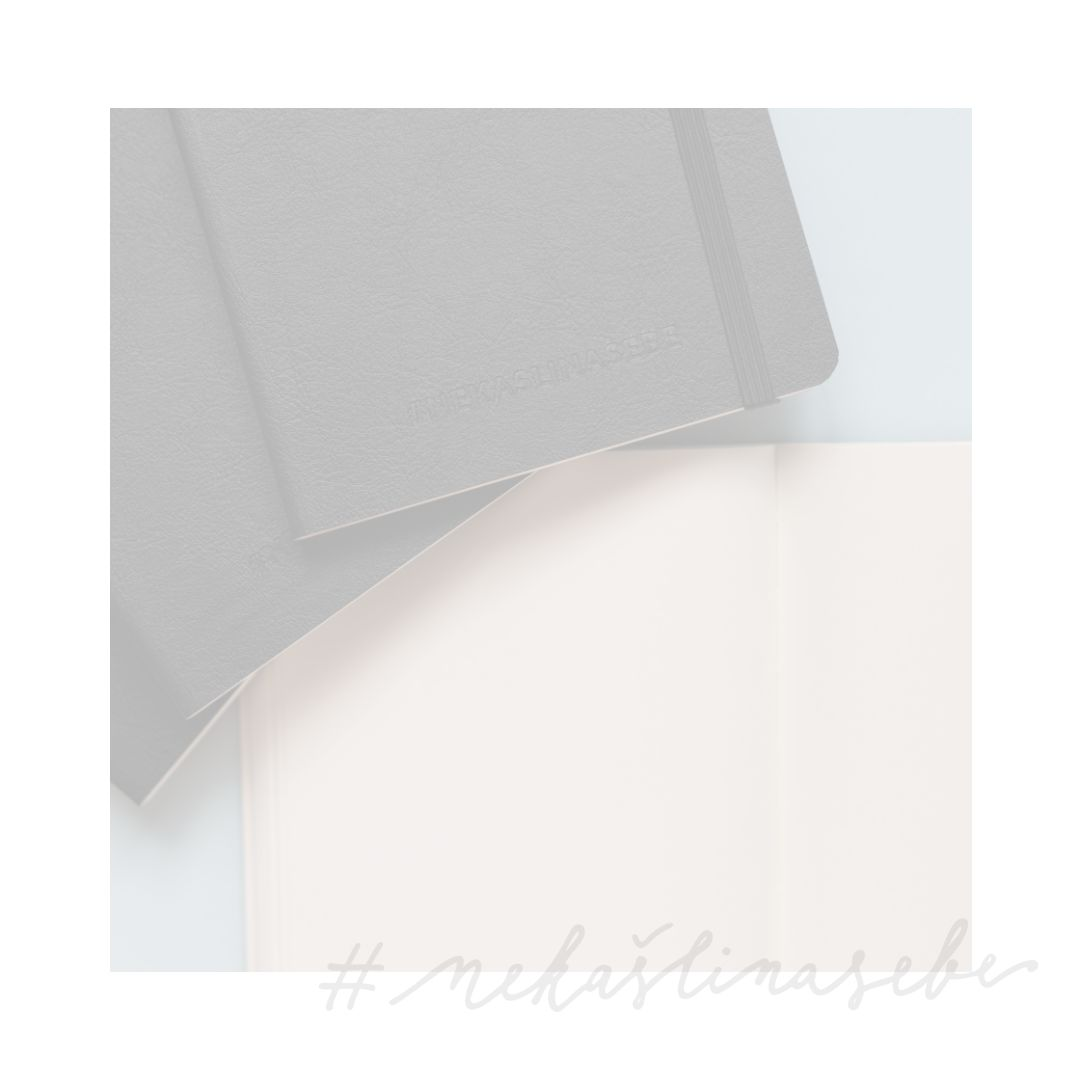
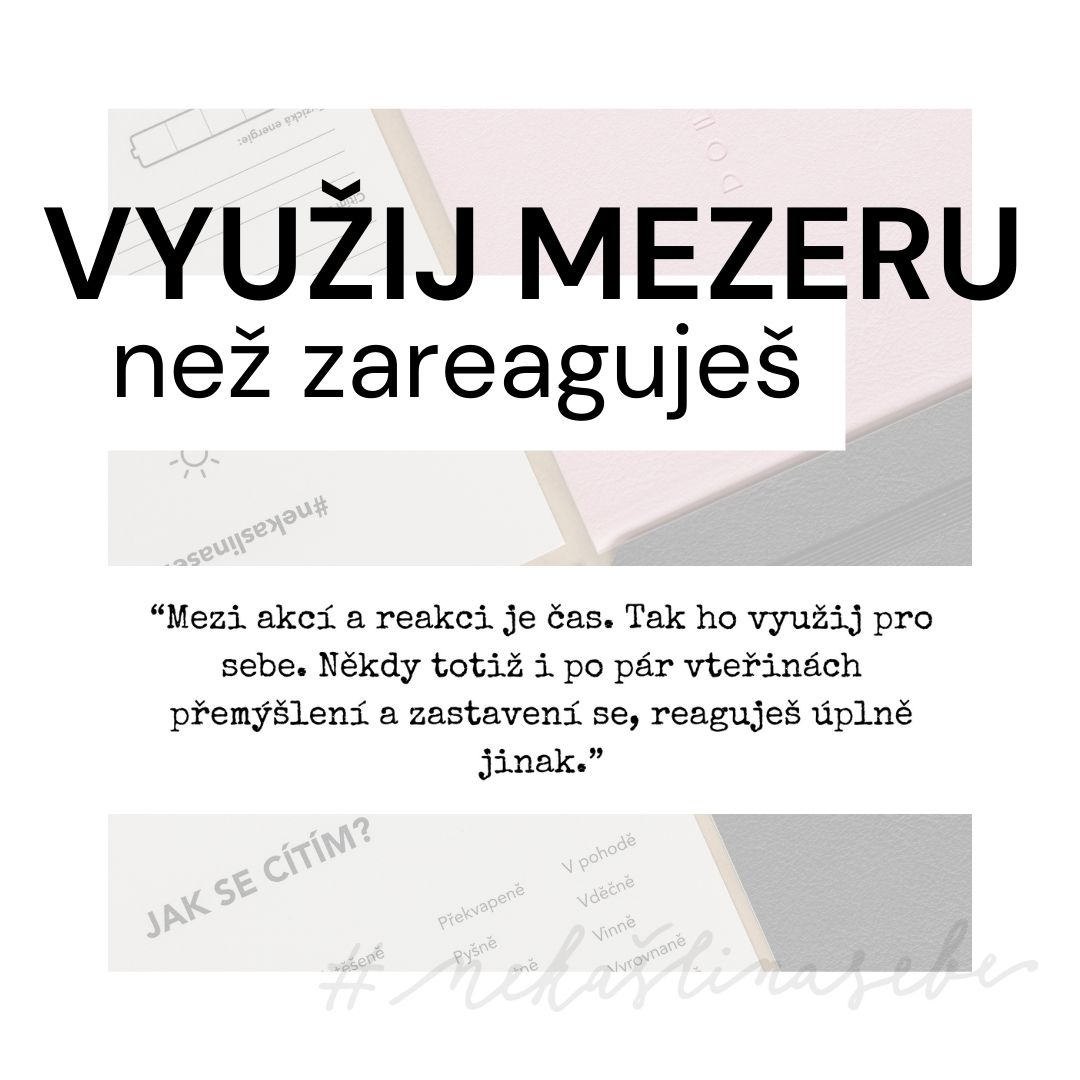
tip4

diff --git a/tips/25-20/tip4.html b/tips/25-20/tip4.html
@@ -80,7 +80,12 @@
         <div class="row mb-8 align-items-center">
           <div class="col-md-8,9" data-aos="fade-up">
             <h2>4.tip #nekaslinasebe</h2>
-            <p>Tip tady ještě není. </p>
+            <p>Emoce nám někdy dávají pěkně zabrat. Nebo se mýlím? Pojďme se dnes podívat na to, jak s nimi můžeme
+              jednoduše pracovat. Někdy na emoci ihned reagujeme. Jsme nevrlí na ostatní. Reagujeme podrážděně nebo na
+              druhého vyjedeme. U sebe samotných můžeme mít tendenci se emoci či nepříjemného pocitu vyhnout nebo se jím
+              nechat pohltit. Prostě emoce raději nemít. Dneska si připomene jednu důležitou věc. <b>Mezi akcí a reakcí
+                je čas. Tak ho využij pro sebe. Někdy i po pár vteřinách přemýšlení se a zastavení se, reaguješ úplně
+                jinak.</b></p>
           </div>
         </div>
       </div>
@@ -89,7 +94,7 @@
         <div class="container">
           <div class="row align-items-stretch">
             <div class="col-md-8" data-aos="fade-up">
-              <img src="/assets/img/_template/img_4_big.jpg" alt="Image" class="img-fluid">
+              <img src="/assets/img/25-20/img_4_big.jpg" alt="Image" class="img-fluid">
             </div>
             <div class="col-md-4 ml-auto mb-5" data-aos="fade-up" data-aos-delay="100">
               <div class="sticky-content">
@@ -97,15 +102,19 @@
                 <p class="mb-4"><span class="text-muted">Pokud máš:</span></p>
 
                 <div class="mb-5">
-                  <p><b>1 minutku</b>:</p>
-                  <p><b>5 minut</b>:</p>
-                  <p><b>15 minut</b>:</p>
+                  <p><b>1 minutku</b>: Možná dnes přijde situace, kdy zareaguješ podrážděně nebo příliš rychle. Zkus ji
+                    zachytit a jen si v hlavě říct: <b>Stop! Nadechni se a vydechni se.</b></p>
+                  <p><b>5 minut</b>: Vyzkoušej jednu z technik, kterou vidíš na obrázku.</p>
+                  <p><b>15 minut</b>: Prvně následuj předchozí minutový a pětiminutový bod výše. Poté se zkus zamyslet
+                    nad otázkami: <b>Proč jsem měl/a tendenci reagovat podrážděně? Co je doopravdy za mnou
+                      podrážděností, nevrlostí skrývá (emoce, spánek, přehlcenost, moc práce)?</b></p>
                 </div>
               </div>
             </div>
           </div>
           <div class="col-md-12 ml-auto mt-3">
-            <p><b>PS:</b></p>
+            <p><b>PS: PS: Buďme na sebe (nejen) dnes laskaví.</b> Zkritizovat za nevhodnou reakci se umíme moc dobře.
+              Proto k tomu zkus dnes přistoupit z druhé strany a opečuj sebe. Jsem v tom s tebou, Terka.</b></p>
           </div>
           <div class="col-md-12 ml-auto mt-3">
             <p> Vše, co tu vidíš, děláme <b>zadarmo</b>. Kdybys nás chtěl/a podpořit, budeme rádi, když mrkneš na naše

diff --git a/tips/24-47/tip4.html b/tips/24-47/tip4.html
@@ -123,7 +123,7 @@
                   href="https://skillmea.cz/online-kurzy/emocni-fitko-jak-na-emoce">kurz emočního fitka: jak na
                   emoce</a></b>, který tě naučí efektivně pracovat s emocemi. Právě díky tomu budeme moct pokračovat v
               poskytování
-              každodenních #nekaslinasebe tipů zdarma. Předem moc děkujeme.
+              každodenních #nekaslinasebe tipů zdarma. <b>Novinkou je knížka <a href="https://obchod.portal.cz/hry-a-procvicovani/nekasli-na-sebe" target="_blank">Nekašli na sebe: Tvůj parťák na cestě s emocemi.</a></b> Předem moc děkujeme.
             </p>
           </div>
         </div>
